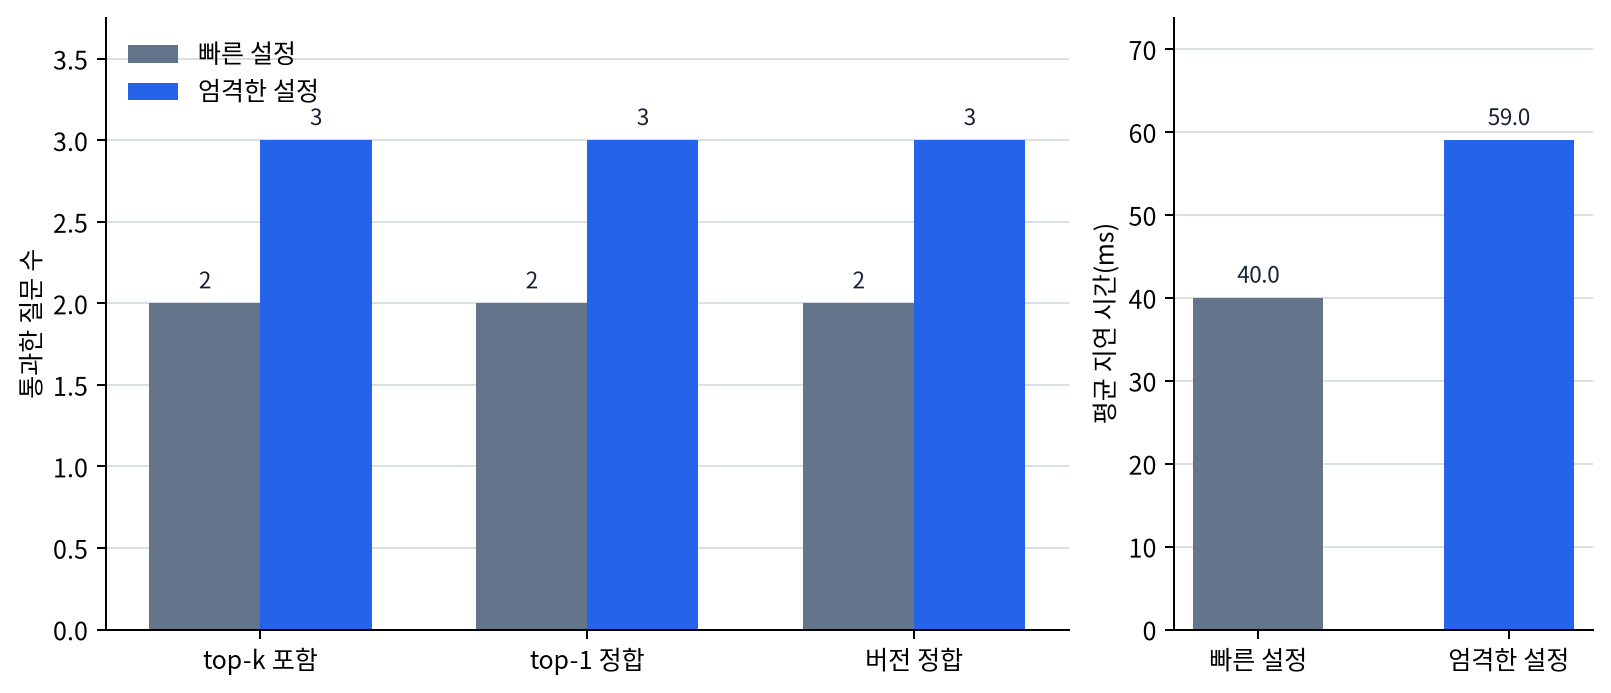
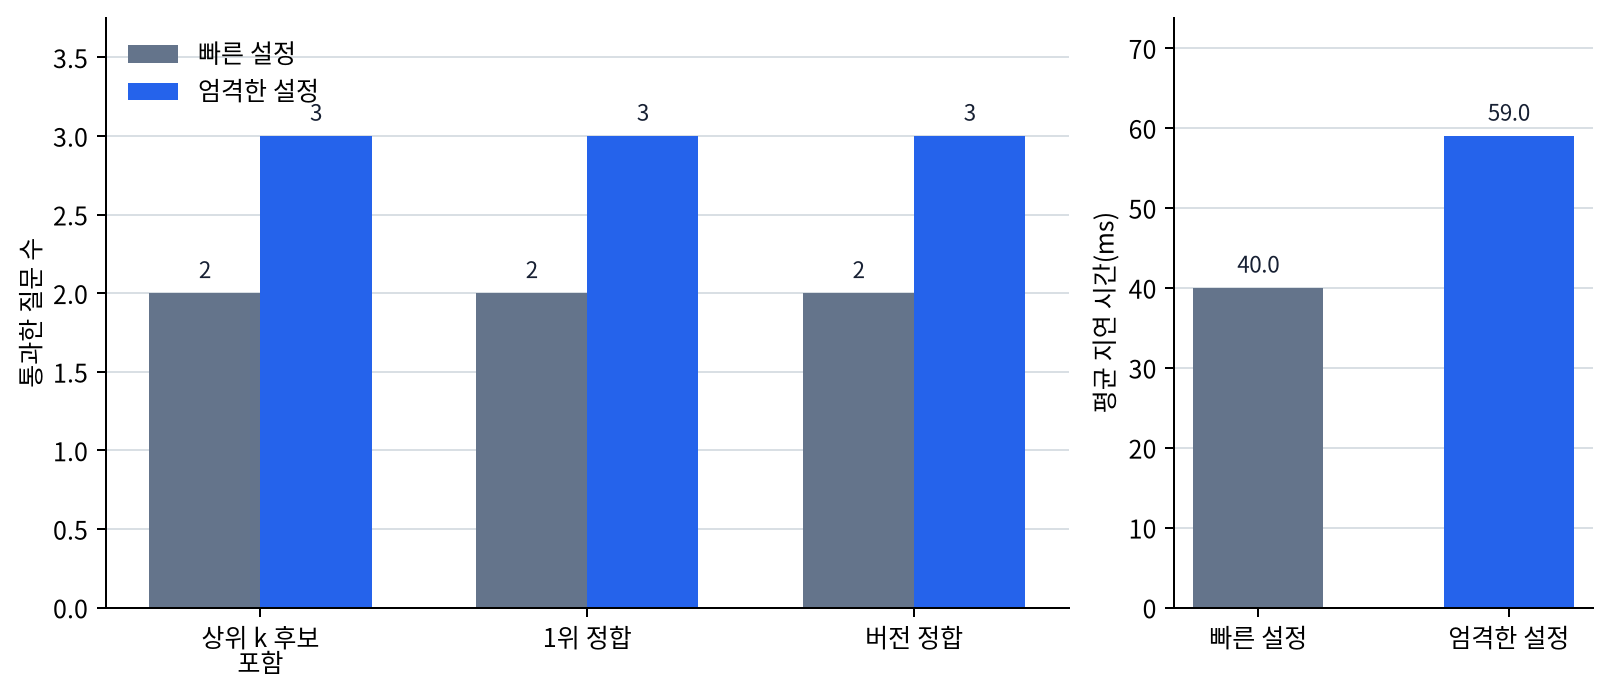
Review Part 6 Python examples through P6-13.1

diff --git a/docs/assets/part-06/chapter-11/p6_11_1_vector_db_payload_chart.py b/docs/assets/part-06/chapter-11/p6_11_1_vector_db_payload_chart.py
@@ -34,7 +34,7 @@ LANG_TEXT = {
         ],
         "outfile": "vector-db-payload-check-ko.png",
         "ylabel": "통과한 질문 수",
-        "labels": ["top-1\n범주 일치", "원문 포함", "메타데이터\n포함"],
+        "labels": ["1위 후보\n범주 일치", "원문 포함", "메타데이터\n포함"],
     },
     "en": {
         "font_candidates": ["DejaVu Sans", "Arial Unicode MS"],

diff --git a/docs/assets/part-06/chapter-11/p6_11_2_index_quality_chart.py b/docs/assets/part-06/chapter-11/p6_11_2_index_quality_chart.py
@@ -46,7 +46,7 @@ LANG_TEXT = {
         "latency_ylabel": "평균 지연 시간(ms)",
         "fast_label": "빠른 설정",
         "strict_label": "엄격한 설정",
-        "quality_labels": ["top-k 포함", "top-1 정합", "버전 정합"],
+        "quality_labels": ["상위 k 후보\n포함", "1위 정합", "버전 정합"],
         "latency_label": "평균 지연",
     },
     "en": {

diff --git a/docs/assets/part-06/chapter-10/p6_10_2_rag_failure_split_chart.py b/docs/assets/part-06/chapter-10/p6_10_2_rag_failure_split_chart.py
@@ -34,7 +34,7 @@ LANG_TEXT = {
             "DejaVu Sans",
         ],
         "outfile": "rag-failure-split-ko.png",
-        "ylabel": "감지된 payload 수",
+        "ylabel": "감지된 실험 수",
         "labels": ["검색 실패", "생성 실패", "무관 내용\n누출", "과장 표현"],
     },
     "en": {

diff --git a/docs/parts/part-06/chapter-11/section-01.md b/docs/parts/part-06/chapter-11/section-01.md
@@ -203,26 +203,9 @@ RAG는 `질문 -> 관련 문서 검색 -> 생성` 구조입니다. 여기서 검
 
 이번 예제의 목표는 실제 벡터 데이터베이스 엔진 전체를 구현하는 것이 아니라, `벡터`, `원문`, `메타데이터`가 함께 저장되고, 질문 벡터와의 유사도로 다시 꺼내 쓰인다는 점을 눈으로 확인하는 것입니다. 이번에는 환불 정책, 설정 메뉴, SDK 제한 처리처럼 다른 질문 벡터를 한 번에 돌려, 같은 저장 구조가 질문에 따라 다른 조각과 메타데이터를 다시 꺼내고, 그 결과가 생성 단계로 넘길 검색 결과 묶음으로 어떻게 이어지는지까지 보겠습니다.
 
-문제 상황:
+문서 조각들은 숫자 벡터만이 아니라 원문과 출처 정보를 함께 가져야 합니다. 질문이 들어오면 질문 벡터와 가까운 조각을 다시 찾고, 검색 후에는 원문 텍스트와 메타데이터를 함께 생성 단계에 넘겨야 합니다. 따라서 `무엇이 1위 후보인가`뿐 아니라 `어떤 출처와 범주가 같이 따라오는가`도 중요합니다.
 
-- 문서 조각들은 숫자 벡터만이 아니라 원문과 출처 정보를 함께 가져야 함
-- 질문이 들어오면 질문 벡터와 가까운 조각을 다시 찾아야 함
-- 검색 후에는 원문 텍스트와 메타데이터를 함께 생성 단계에 넘겨야 함
-- 따라서 `무엇이 top-1인가`뿐 아니라 `어떤 출처와 범주가 같이 따라오는가`도 중요함
-
-입력:
-
-- 세 개의 문서 조각
-- 각 조각의 임베딩 벡터
-- 질문 벡터 여러 개
-
-출력:
-
-- 질문별 유사도 점수
-- 질문별 상위 후보 문서 조각
-- 검색 후 다시 꺼내 쓰는 원문과 메타데이터
-- 질문별 1위 후보의 출처와 범주
-- 생성 단계로 넘길 검색 결과 묶음
+아래 예제는 세 개의 문서 조각, 각 조각의 임베딩 벡터, 여러 질문 벡터를 사용합니다. 출력에서는 질문별 유사도 점수, 상위 후보 문서 조각, 검색 후 다시 꺼내 쓰는 원문과 메타데이터, 질문별 1위 후보의 출처와 범주, 생성 단계로 넘길 검색 결과 묶음을 확인합니다.
 
 먼저 이 절에서 확인할 점을 표로 잡으면 다음과 같습니다.
 
@@ -233,13 +216,7 @@ RAG는 `질문 -> 관련 문서 검색 -> 생성` 구조입니다. 여기서 검
 | 반환 결과에 메타데이터가 포함되는가 | 출처 표기, 날짜 필터, 버전 필터에 필요해서 |
 | 질문마다 반환 묶음이 달라지는가 | 같은 저장 구조가 질문별 근거 반환 계층으로 동작하는지 확인 |
 
-입력(input):
-
-위에 정리한 문서 레코드, 임베딩, 질문 벡터를 사용합니다.
-
-확인할 개념:
-
-- 벡터 데이터베이스는 유사한 문장뿐 아니라 원문과 메타데이터를 함께 반환해야 RAG 근거 저장소로 쓸 수 있다
+코드에서 확인할 핵심은 벡터 데이터베이스는 유사한 문장뿐 아니라 원문과 메타데이터를 함께 반환해야 RAG 근거 저장소로 쓸 수 있다는 점입니다.
 
 ```python
 import math
@@ -444,7 +421,7 @@ api_limit_question [0.19, 0.16, 0.96]
 
 앞의 예제는 벡터 데이터베이스를 구현하는 코드가 아니라, `비슷한 벡터를 찾는다`는 말 뒤에 실제로는 원문과 메타데이터까지 함께 저장하고 다시 꺼내는 계층이 있다는 점을 보여 주는 최소 장면입니다. 여기서 읽어야 할 핵심은 임베딩 숫자만으로 끝나지 않고, 검색 이후 답변 단계에 다시 쓸 정보를 함께 보존해야 한다는 점입니다. 그리고 같은 저장 구조가 질문마다 다른 출처와 범주를 다시 돌려준다는 점도 함께 중요합니다.
 
-요약 통계를 차트로 보면 세 질문 모두 top-1 범주가 맞고, 반환 payload에도 원문과 메타데이터가 모두 들어 있습니다. 그래서 이 예제는 `가까운 벡터를 찾았다`에서 멈추지 않고, 생성 단계가 실제로 다시 쓸 문장과 출처 정보가 함께 돌아오는지를 점검해야 한다는 뜻으로 읽어야 합니다.
+요약 통계를 차트로 보면 세 질문 모두 1위 후보 범주가 맞고, 반환 묶음에도 원문과 메타데이터가 모두 들어 있습니다. 그래서 이 예제는 `가까운 벡터를 찾았다`에서 멈추지 않고, 생성 단계가 실제로 다시 쓸 문장과 출처 정보가 함께 돌아오는지를 점검해야 한다는 뜻으로 읽어야 합니다.
 
 ![벡터 데이터베이스 예제의 범주·원문·메타데이터 점검 통과 수](../../../assets/part-06/chapter-11/vector-db-payload-check-ko.png)
 
@@ -473,6 +450,6 @@ api_limit_question [0.19, 0.16, 0.96]
 
 ## 출처와 참고 자료
 
-- OpenAI, [Vector embeddings](https://developers.openai.com/api/docs/guides/embeddings){: target="_blank" rel="noopener noreferrer" }, OpenAI API Docs, 확인 날짜: 2026-07-05.
-- Jeff Johnson, Matthijs Douze, Herve Jegou, [Billion-scale similarity search with GPUs](https://arxiv.org/abs/1702.08734){: target="_blank" rel="noopener noreferrer" }, arXiv, 2017, 확인 날짜: 2026-07-05.
-- Yu A. Malkov, D. A. Yashunin, [Efficient and Robust Approximate Nearest Neighbor Search Using Hierarchical Navigable Small World Graphs](https://arxiv.org/abs/1603.09320){: target="_blank" rel="noopener noreferrer" }, arXiv, 2016, 확인 날짜: 2026-07-05.
+- OpenAI, [Vector embeddings](https://developers.openai.com/api/docs/guides/embeddings){: target="_blank" rel="noopener noreferrer" }, OpenAI API Docs, 확인 날짜: 2026-07-19.
+- Jeff Johnson, Matthijs Douze, Herve Jegou, [Billion-scale similarity search with GPUs](https://arxiv.org/abs/1702.08734){: target="_blank" rel="noopener noreferrer" }, arXiv, 2017, 확인 날짜: 2026-07-19.
+- Yu A. Malkov, D. A. Yashunin, [Efficient and Robust Approximate Nearest Neighbor Search Using Hierarchical Navigable Small World Graphs](https://arxiv.org/abs/1603.09320){: target="_blank" rel="noopener noreferrer" }, arXiv, 2016, 확인 날짜: 2026-07-19.

diff --git a/management/release-notes/sections/part-06/P6-11.2.md b/management/release-notes/sections/part-06/P6-11.2.md
@@ -8,8 +8,10 @@
 - Python 예제 재설계: 미리 만든 fast/strict 후보 목록을 집계하던 예제를 제거하고, CSV로 분리한 문서 벡터와 질문 벡터를 읽어 `candidate_budget`, `version_filter` 설정 변화에 따라 후보 압축, top-k 포함률, top-1 정합률, 버전 정합성, 지연 시간 대체값이 실제로 달라지는 실험형 예제로 바꿨다.
 - 자산 반영: 예제 입력 데이터 `p6-11-index-documents.csv`, `p6-11-index-queries.csv`를 추가하고, `index-quality-latency` 차트 소스와 PNG를 새 실험 출력 기준으로 갱신했다.
 - 범위 판단 반영: 실제 ANN 라이브러리 실습은 P6-11.2 본문 예제가 아니라 Part 7 프로젝트 실습에서 다루는 것이 적절하다고 정리하고, P6-11.2에는 ANN적 타협을 이해하는 축약 실험만 남겼다.
+- 근거 정합성: HNSW, FAISS, OpenAI Vector embeddings 참고 자료의 확인 날짜를 현재 검토일로 갱신했다.
 - 메타데이터 반영: 본문 Version을 `v2026.07.19`로 갱신했다.
 - 본문 정리: 연습 및 예제의 `문제 상황` 블록이 같은 검색 품질 평가 기준을 두 번 반복하던 부분을 줄였다.
+- 차트 정리: 한국어 차트의 `top-k`, `top-1` 표기를 `상위 k 후보`, `1위 정합`으로 바꿔 도식 내부 언어를 맞췄다.
 - 릴리즈노트 정리: 기존 항목을 최신순으로 재배치했다.
 - Python 예제 검토: 예제 실행 결과가 본문 출력 예시와 일치함을 확인했다.
 - 학습 밀도 보강: 빠른 검색 설정과 엄격한 검색 설정의 top-k 포함, top-1 정합, 버전 정합, 평균 지연 시간을 비교하는 PNG 차트 `index-quality-latency-en.png` / `index-quality-latency-ko.png`를 추가했다.

diff --git a/management/release-notes/sections/part-06/P6-10.2.md b/management/release-notes/sections/part-06/P6-10.2.md
@@ -6,12 +6,14 @@
 ### v2026.07.19
 
 - 입력 데이터 분리: RAG 문서 목록과 실험 조건을 `docs/assets/part-06/chapter-10/p6-10-rag-documents.csv`, `docs/assets/part-06/chapter-10/p6-10-rag-experiments.csv`로 추가하고, Python 예제가 실제 CSV를 읽도록 바꿨다.
+- 근거 정합성: RAG 논문, OpenAI Retrieval, OpenAI File search 자료의 확인 날짜를 현재 검토일로 갱신했다.
 - Python 예제 재설계: 고정된 payload 묶음을 검사하던 예제를 `retrieval_terms`와 `generation_style` 조작값에 따라 검색 문서와 생성 결과가 달라지는 실험형 예제로 바꿨다.
 - 가이드라인 반영: 검색 결과, 후보 목록, 생성 결과를 미리 주입하지 않고 입력 문서와 조작 변수에서 실패가 드러나도록 수정했다.
 - 메타데이터 반영: 본문 Version을 `v2026.07.19`로 갱신했다.
 - 본문 정리: 연습 및 예제의 `문제 상황` 블록이 같은 검색 실패·생성 실패 구분을 두 번 반복하던 부분을 줄였다.
 - Python 예제 검토: 예제 실행 결과가 본문 출력 예시와 일치함을 확인했다.
 - 학습 밀도 보강: 검색 실패와 생성 실패가 따로 감지되는 수를 비교하는 PNG 차트 `rag-failure-split-en.png` / `rag-failure-split-ko.png`를 추가했다.
+- 차트 정리: 한국어 차트 y축 라벨의 영문 잔여 표현을 한국어 설명으로 맞췄다.
 - 번역 동기화 메모: 대응 번역본이 생기면 같은 예제 도입 중복 축소와 차트 연결 문단을 반영해야 한다.
 
 ### v2026.07.18
